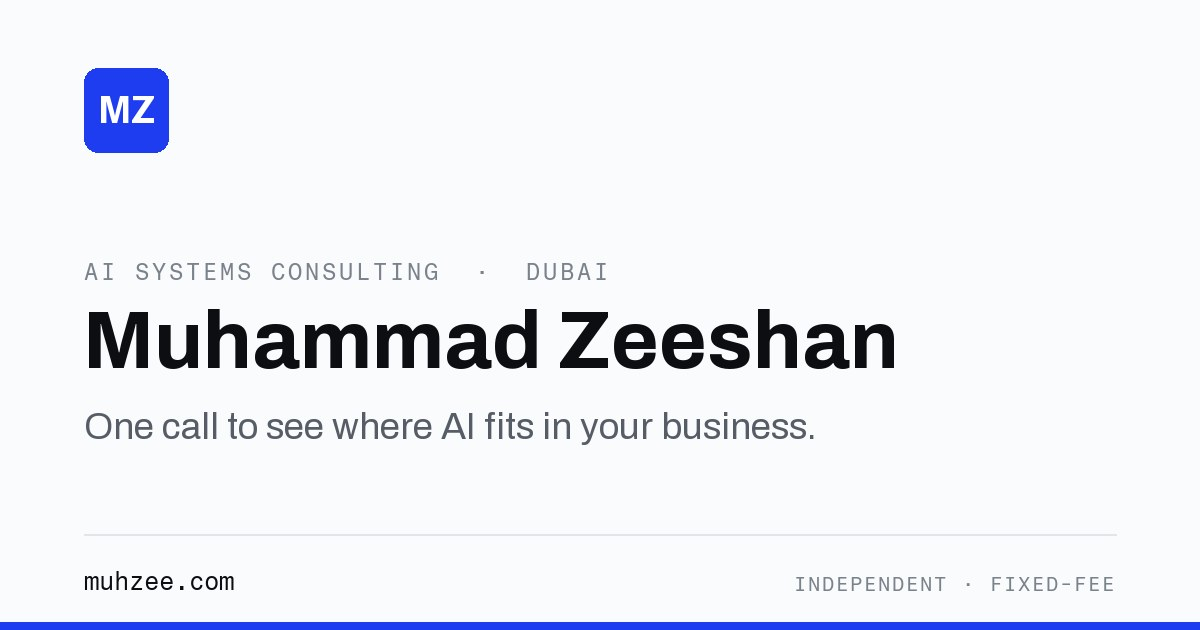
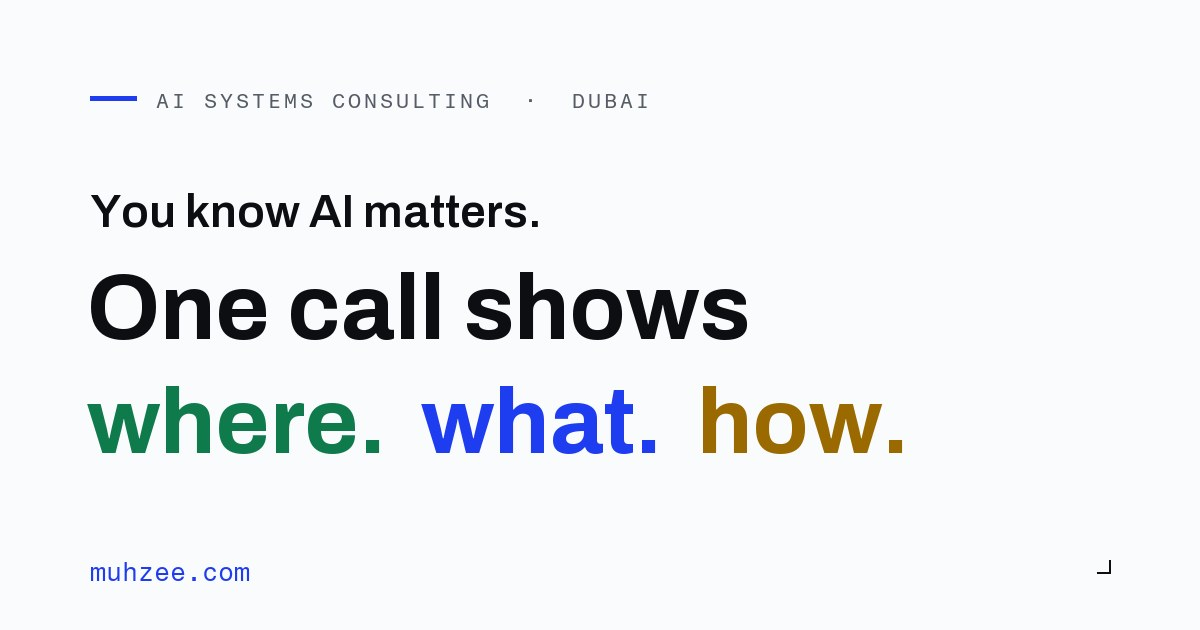
Rework link-preview image to lead with the site hook, not the name
og-image.jpg now carries the hero hook (You know AI matters. One call
shows where./what./how. in brand green/blue/amber) instead of the
name + monogram card. Update og/twitter image:alt to match.

diff --git a/index.html b/index.html
@@ -22,14 +22,14 @@
 <meta property="og:image:type" content="image/jpeg">
 <meta property="og:image:width" content="1200">
 <meta property="og:image:height" content="630">
-<meta property="og:image:alt" content="Muhammad Zeeshan, AI Systems Consulting, Dubai">
+<meta property="og:image:alt" content="You know AI matters. One call shows where AI fits, what it is worth, and how. AI Systems Consulting, Dubai.">
 
 <!-- Twitter / X card -->
 <meta name="twitter:card" content="summary_large_image">
 <meta name="twitter:title" content="Muhammad Zeeshan · AI Systems Consulting, Dubai">
 <meta name="twitter:description" content="One 30-minute call to see where AI fits in your UAE business: what it is worth in hours and dirhams, and whether it is worth doing. Independent, fixed-fee, Dubai.">
 <meta name="twitter:image" content="https://muhzee.com/og-image.jpg">
-<meta name="twitter:image:alt" content="Muhammad Zeeshan, AI Systems Consulting, Dubai">
+<meta name="twitter:image:alt" content="You know AI matters. One call shows where AI fits, what it is worth, and how. AI Systems Consulting, Dubai.">
 
 <!-- Structured data -->
 <script type="application/ld+json">
